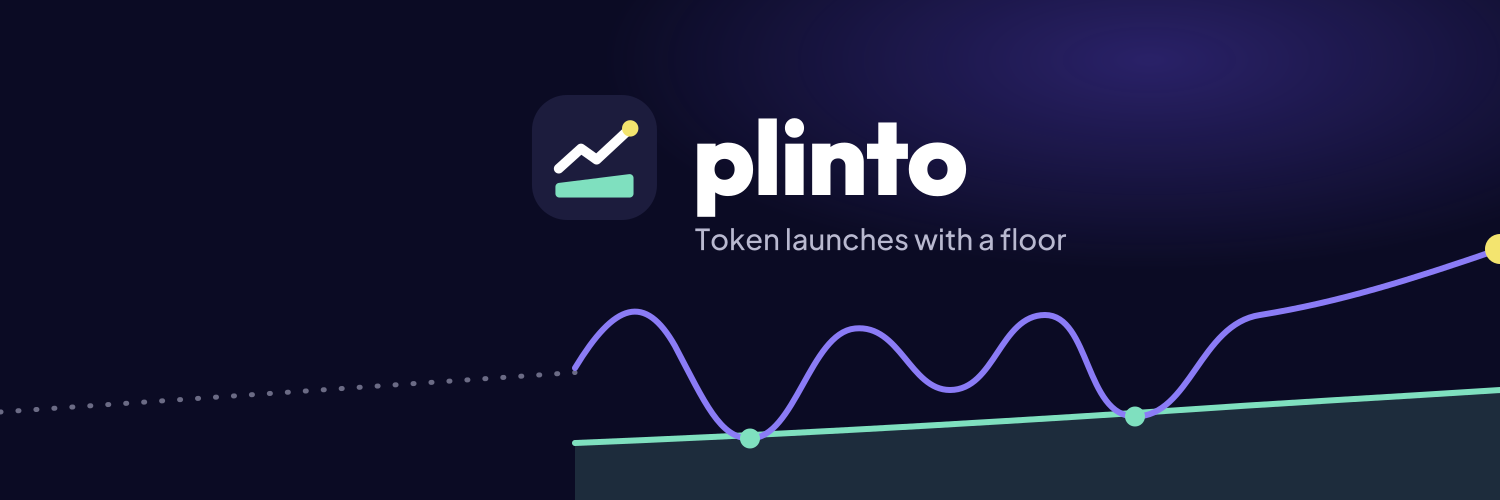
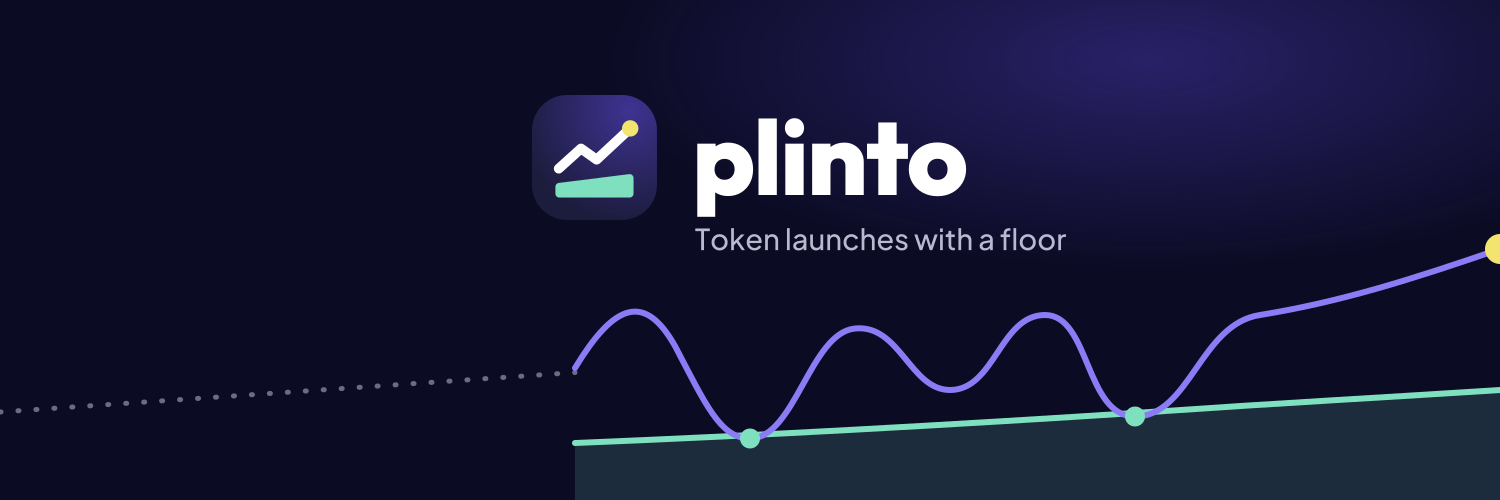
docs: lighter indigo tile with a violet glow for the Pastel mark

Changed region(s): [[0.368, 0.18, 0.46, 0.39]]

diff --git a/docs/brand/social/pastel/gen.py b/docs/brand/social/pastel/gen.py
@@ -59,10 +59,21 @@ MARK_FLOOR = "M14 50.5h36v-8l-36 4.5z"
 MARK_LINE = "M13.7 37.7L25.1 27.4l8 5.7L50.3 17.1"
 
 
-def mark(x, y, size, bg=MIDNIGHT, floor=MINT_DARK, line="#ffffff", dot=BUTTER, rx=18):
+TILE = "#1c1c3d"  # the mark's tile: lighter than midnight, lifted by a violet glow
+_mark_n = [0]
+
+
+def mark(x, y, size, bg=TILE, floor=MINT_DARK, line="#ffffff", dot=BUTTER, rx=18):
     s = size / 64
+    _mark_n[0] += 1
+    gid = f"mg{_mark_n[0]}"
     dot_svg = f'<circle cx="50.3" cy="17.1" r="4.2" fill="{dot}"/>' if dot else ""
-    bg_svg = f'<rect width="64" height="64" rx="{rx}" fill="{bg}"/>' if bg else ""
+    bg_svg = (
+        f'<radialGradient id="{gid}" cx="0.78" cy="0.12" r="0.9"><stop offset="0" stop-color="#5b45d6" stop-opacity="0.55"/>'
+        f'<stop offset="1" stop-color="#5b45d6" stop-opacity="0"/></radialGradient>'
+        f'<rect width="64" height="64" rx="{rx}" fill="{bg}"/><rect width="64" height="64" rx="{rx}" fill="url(#{gid})"/>'
+        if bg else ""
+    )
     return (
         f'<g transform="translate({x} {y}) scale({s:.5f})">{bg_svg}'
         f'<path d="{MARK_FLOOR}" fill="{floor}" stroke="{floor}" stroke-width="4" stroke-linejoin="round"/>'
@@ -107,7 +118,14 @@ def avatar(bg_svg, floor, line, dot, defs=""):
     return svg(1000, 1000, body, defs)
 
 
-write("avatar-pastel-midnight.svg", avatar(f'<rect width="1000" height="1000" fill="{MIDNIGHT}"/>', MINT_DARK, "#ffffff", BUTTER))
+AV_GLOW = (
+    '<radialGradient id="avg" cx="0.78" cy="0.12" r="0.9"><stop offset="0" stop-color="#5b45d6" stop-opacity="0.55"/>'
+    '<stop offset="1" stop-color="#5b45d6" stop-opacity="0"/></radialGradient>'
+)
+write(
+    "avatar-pastel-midnight.svg",
+    avatar(f'<rect width="1000" height="1000" fill="{TILE}"/><rect width="1000" height="1000" fill="url(#avg)"/>', MINT_DARK, "#ffffff", BUTTER, AV_GLOW),
+)
 write(
     "avatar-pastel-wash.svg",
     avatar('<rect width="1000" height="1000" fill="url(#aw)"/>', FLOOR, MIDNIGHT, None, wash_defs("aw", 1000, 1000)),
@@ -167,7 +185,7 @@ body = (
     f'<rect width="3000" height="1000" fill="{MIDNIGHT}"/>'
     '<ellipse cx="2300" cy="120" rx="1100" ry="420" fill="url(#glow)"/>'
     + chart(IRIS, MINT_DARK, MINT_DARK, "#6b6b85", MINT_DARK, BUTTER, floor_opacity=0.16)
-    + lockup(1500, 190, 250, 210, 58, "#ffffff", "#b9b9d0", {"bg": "#1c1c3d"})
+    + lockup(1500, 190, 250, 210, 58, "#ffffff", "#b9b9d0", {})
 )
 glow = (
     '<radialGradient id="glow"><stop offset="0" stop-color="#5b45d6" stop-opacity="0.38"/>'

diff --git a/docs/brand/README.md b/docs/brand/README.md
@@ -73,7 +73,7 @@ the end of the price line on midnight grounds.
 
 | File | Size | Use |
 |---|---|---|
-| `avatar-pastel-midnight.png` | 400×400 | Profile picture: midnight, mint floor, butter dot |
+| `avatar-pastel-midnight.png` | 400×400 | Profile picture: indigo `#1c1c3d` with a violet glow, mint floor, butter dot |
 | `avatar-pastel-wash.png` | 400×400 | Profile picture on the pastel wash |
 | `avatar-pastel-butter.png` | 400×400 | Profile picture on butter, the loudest of the three |
 | `header-pastel-wordmark.png` | 1500×500 | Header: mark, wordmark and tagline over the price-and-floor line, on the wash |
